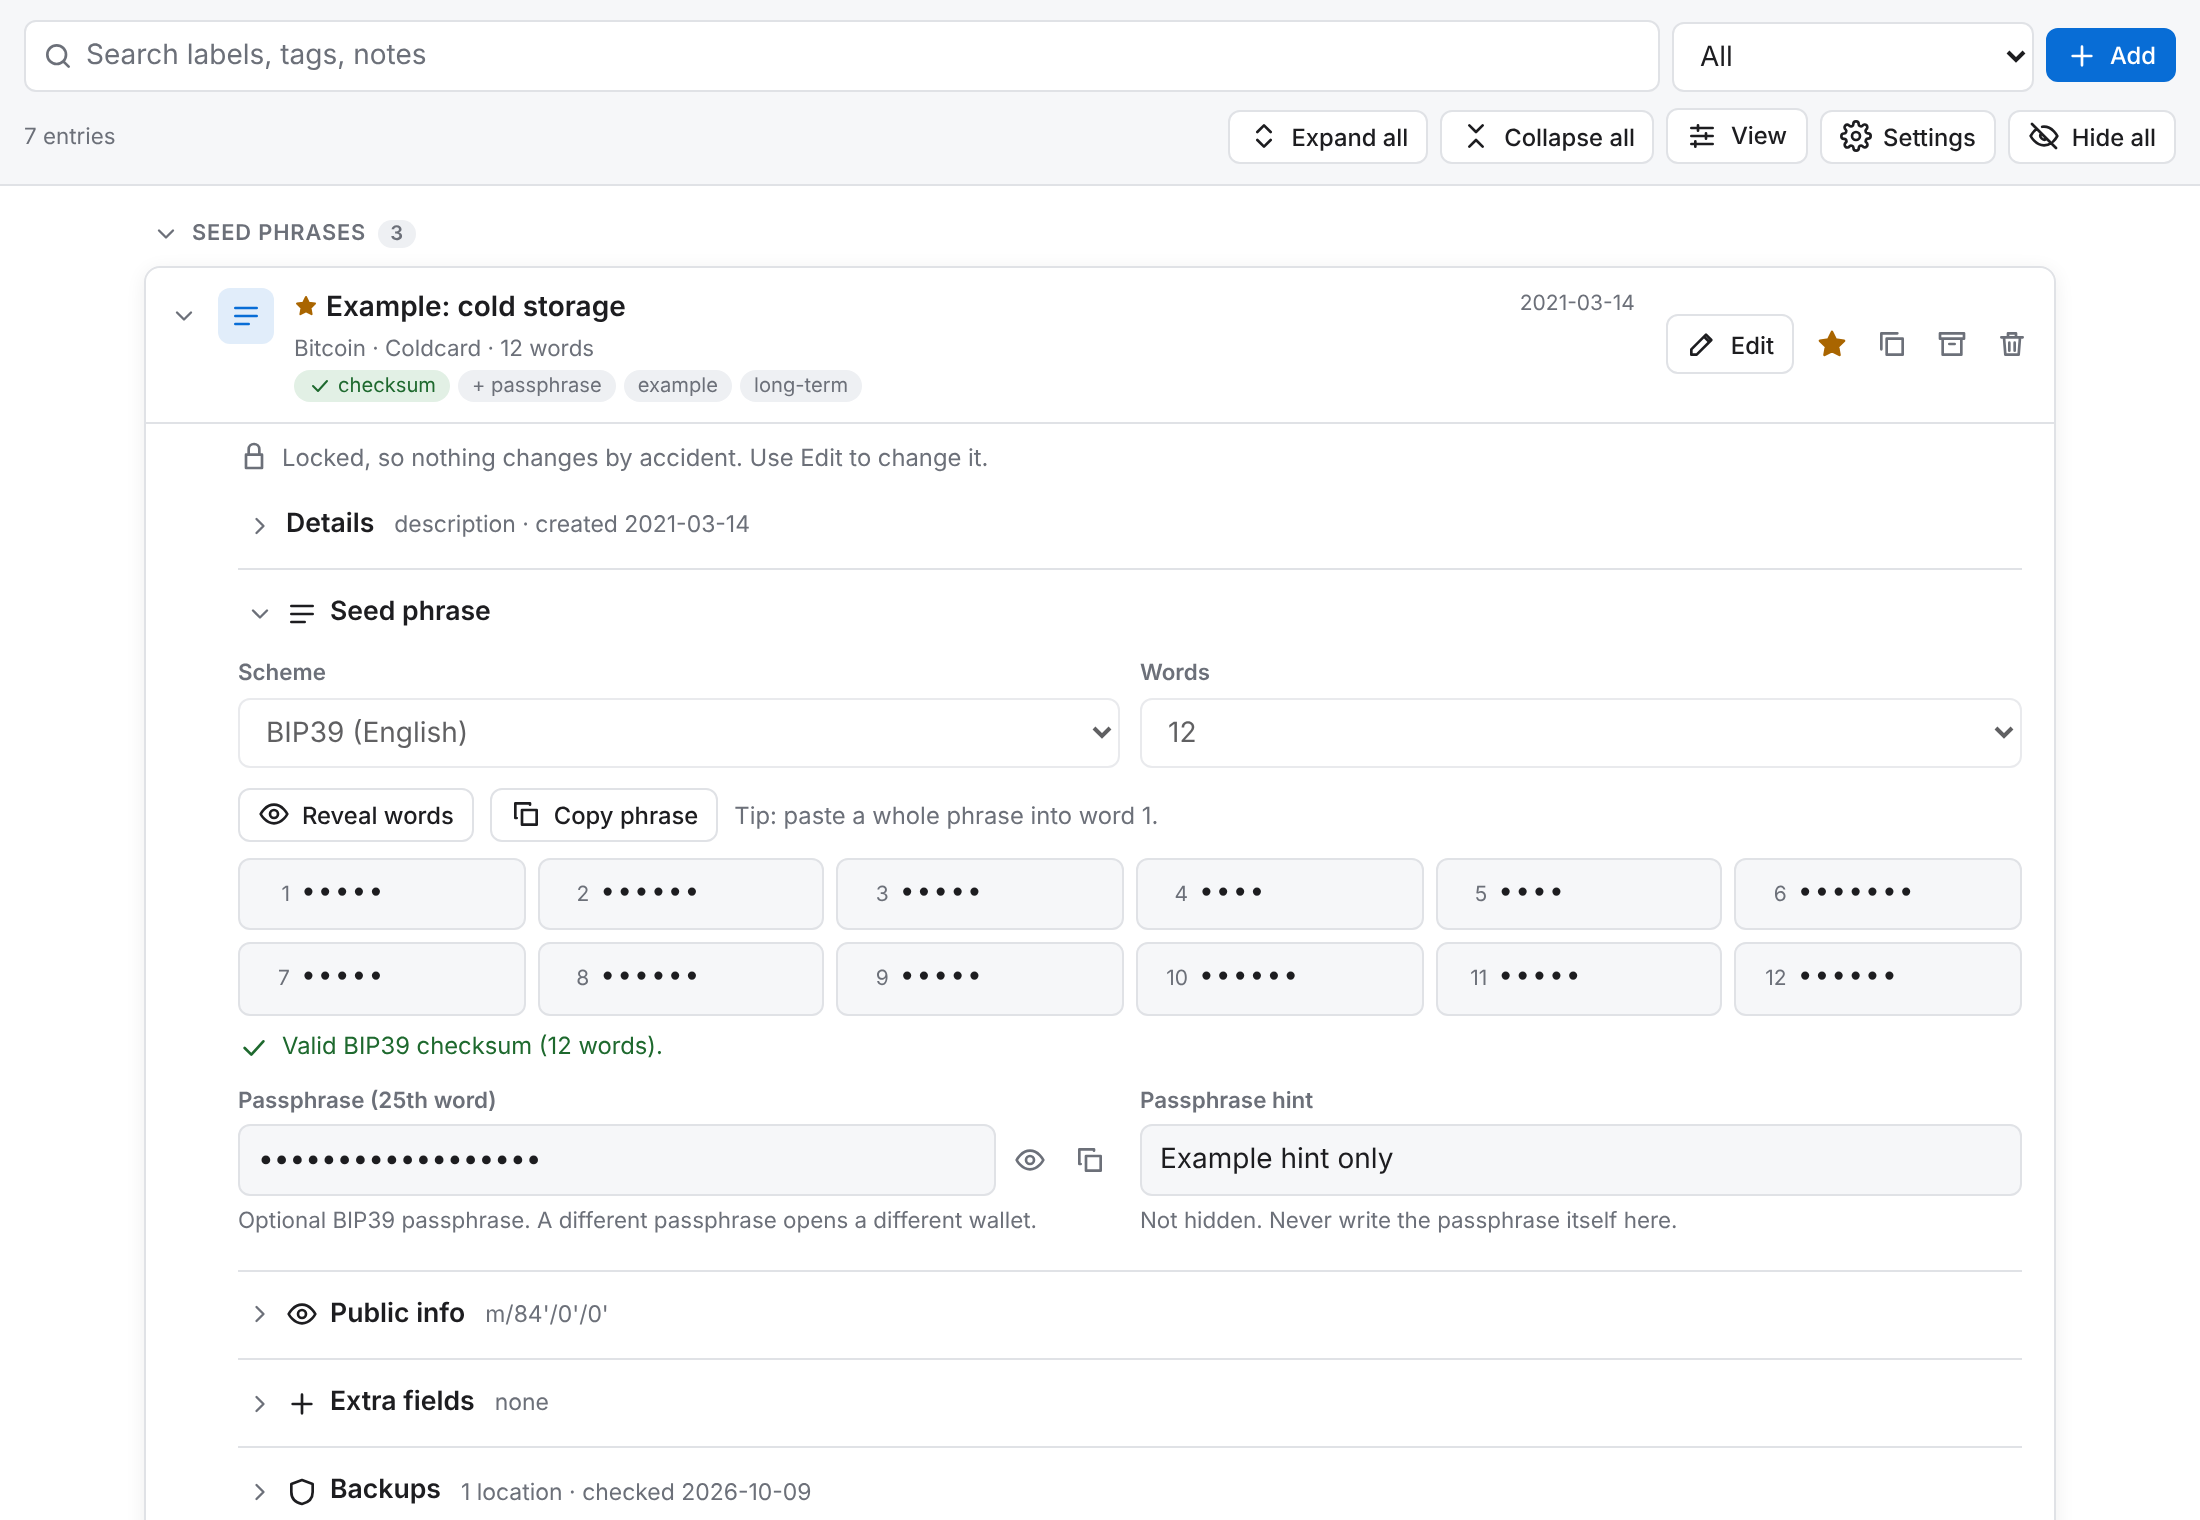
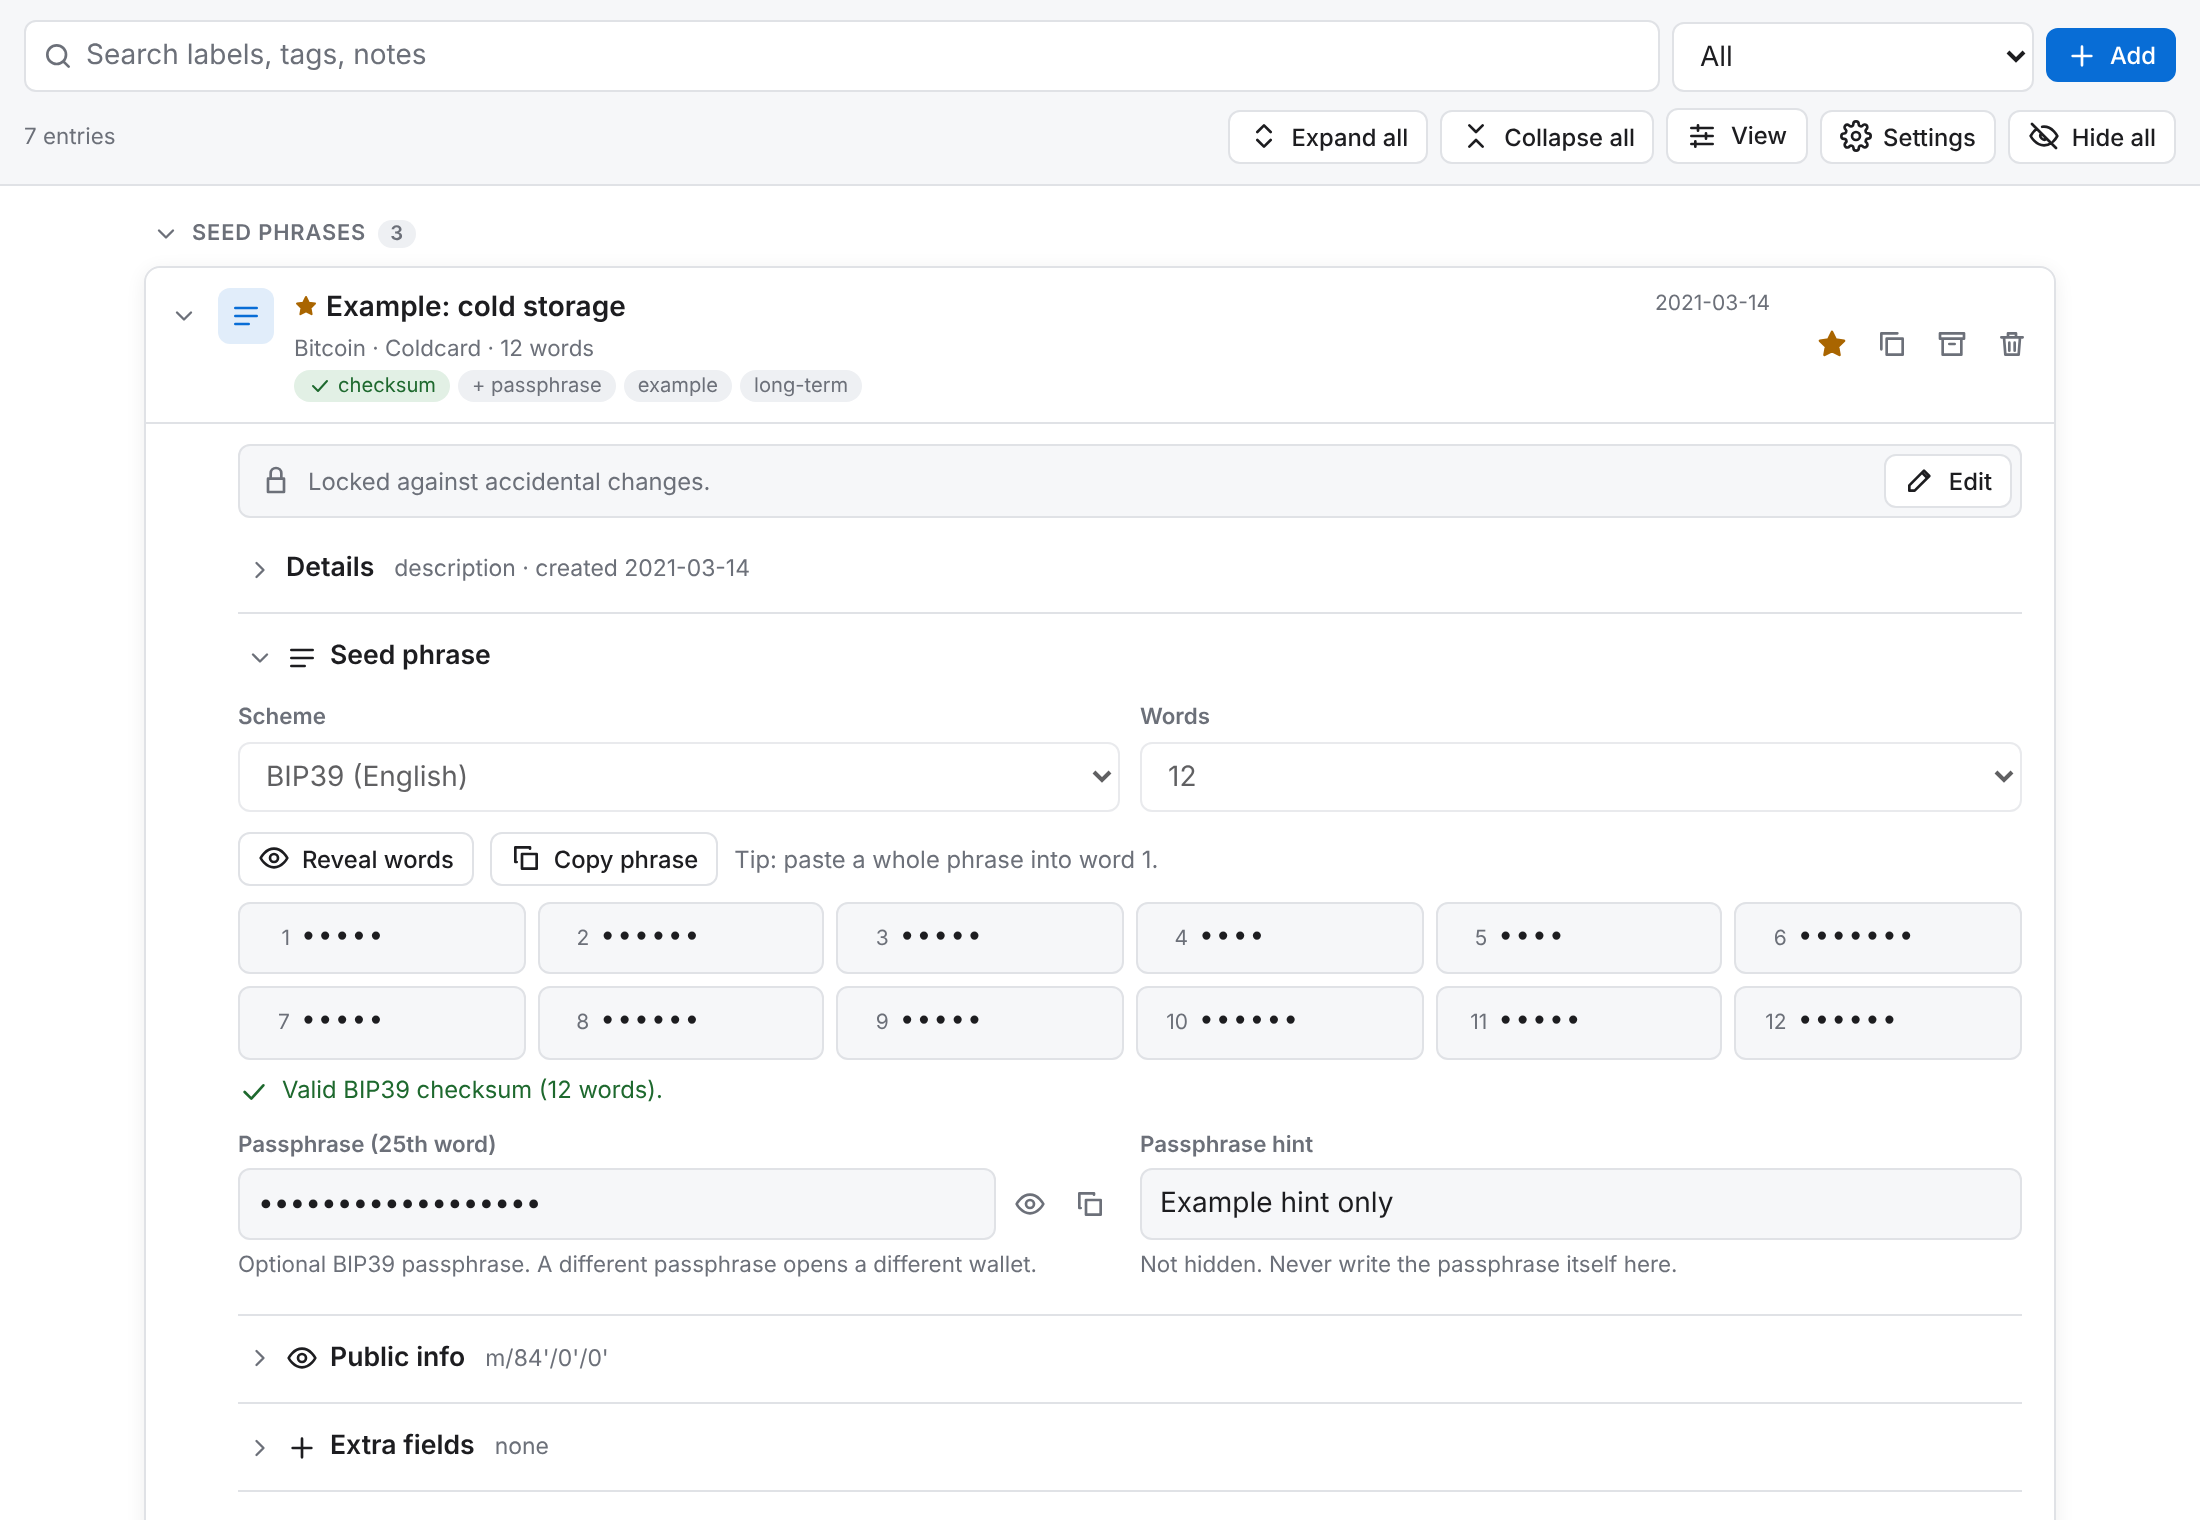
Move Edit into a bar above a locked entry's fields
The Edit button sat in the header's row of icon buttons, where it looked
heavy next to them and, on phones, its border ran into the header's
bottom line. A bar at the top of the entry now says "Locked against
accidental changes." and holds Edit; while editing it reads "Editing."
with Done. The header keeps its plain icon buttons. The README screenshot
shows the bar.

diff --git a/src/ui/EntryEditor.tsx b/src/ui/EntryEditor.tsx
@@ -842,42 +842,39 @@ export interface EntryHandlers {
  */
 export type EntryLock = 'off' | 'locked' | 'editing'
 
-/** Makes everything inside read-only while the entry is locked. Always rendered, so unlocking keeps state (revealed words). */
-export const LockScope = ({ lock, children }: { lock: EntryLock; children: ComponentChildren }) => {
+/**
+ * Makes everything inside read-only while the entry is locked, under a bar
+ * that says so and holds Edit (or Done). Always rendered, so unlocking keeps
+ * state such as revealed words.
+ */
+export const LockScope = ({ lock, onEditing, children }: { lock: EntryLock; onEditing: (editing: boolean) => void; children: ComponentChildren }) => {
   const ui = useUi()
   const readOnly = ui.readOnly || lock === 'locked'
   const value = useMemo(() => (readOnly === ui.readOnly ? ui : { ...ui, readOnly }), [ui, readOnly])
+  const locked = lock === 'locked'
   return (
     <UiContext.Provider value={value}>
-      {lock === 'locked' && !ui.readOnly && (
-        <p class="lock-hint muted small">
-          <Icon name="lock" /> Locked, so nothing changes by accident. Use Edit to change it.
-        </p>
+      {lock !== 'off' && !ui.readOnly && (
+        <div class={`lock-bar ${lock}`}>
+          <Icon name={locked ? 'lock' : 'edit'} />
+          <span>{locked ? 'Locked against accidental changes.' : 'Editing.'}</span>
+          <button type="button" class="button small" onClick={() => onEditing(locked)}>
+            <Icon name={locked ? 'edit' : 'check'} /> {locked ? 'Edit' : 'Done'}
+          </button>
+        </div>
       )}
       {children}
     </UiContext.Provider>
   )
 }
 
-/** Edit or Done, then favorite, duplicate, archive and delete buttons. */
-export const EntryActions = ({
-  entry,
-  lock,
-  onUpdate,
-  onDelete,
-  onDuplicate,
-  onEditing,
-}: { entry: Entry; lock: EntryLock } & EntryHandlers) => {
+/** Favorite, duplicate, archive and delete buttons. */
+export const EntryActions = ({ entry, onUpdate, onDelete, onDuplicate }: { entry: Entry } & EntryHandlers) => {
   const { readOnly } = useUi()
   // Read-only, every action is disabled: show none rather than a row of greyed-out buttons.
   if (readOnly) return null
   return (
     <div class="entry-actions">
-      {lock !== 'off' && (
-        <button type="button" class="button small edit-toggle" onClick={() => onEditing(lock === 'locked')}>
-          <Icon name={lock === 'locked' ? 'edit' : 'check'} /> {lock === 'locked' ? 'Edit' : 'Done'}
-        </button>
-      )}
       <button
         type="button"
         class={`icon-button ${entry.favorite ? 'active' : ''}`}
@@ -980,10 +977,10 @@ export const EntryEditor = ({ entry, lock, reminderMonths, onUpdate, onDelete, o
           onInput={(e) => !readOnly && onUpdate({ label: e.currentTarget.value })}
         />
         <span class={`badge badge-${entry.kind}`}>{KIND_LABELS[entry.kind]}</span>
-        <EntryActions entry={entry} lock={lock} onUpdate={onUpdate} onDelete={onDelete} onDuplicate={onDuplicate} onEditing={onEditing} />
+        <EntryActions entry={entry} onUpdate={onUpdate} onDelete={onDelete} onDuplicate={onDuplicate} onEditing={onEditing} />
       </header>
       <div class="editor-body">
-        <LockScope lock={lock}>
+        <LockScope lock={lock} onEditing={onEditing}>
           <EntryBody entry={entry} reminderMonths={reminderMonths} onUpdate={onUpdate} showLabel={false} />
         </LockScope>
       </div>

diff --git a/src/styles.css b/src/styles.css
@@ -922,18 +922,29 @@ select.input {
 .paste-note {
   width: 100%;
 }
-/* A saved entry opened locked: its fields are read-only until Edit. */
-.lock-hint {
+/* Saved entries open locked: a bar on top says so and holds Edit, or Done while editing. */
+.lock-bar {
   display: flex;
   align-items: center;
-  gap: 6px;
-  margin: 8px 0 4px;
+  gap: 8px;
+  margin: 10px 0 4px;
+  padding: 4px 4px 4px 10px;
+  font-size: 0.85rem;
+  color: var(--muted);
+  background: var(--panel);
+  border: 1px solid var(--border);
+  border-radius: var(--radius);
 }
-.lock-hint svg {
+.lock-bar > span {
+  flex: 1;
+  min-width: 0;
+}
+.lock-bar > svg {
   flex: none;
 }
-.entry-actions .edit-toggle {
-  margin-right: 4px;
+.lock-bar.editing {
+  color: var(--fg);
+  border-color: var(--info);
 }
 .notices > summary {
   color: var(--info);

diff --git a/src/ui/EntryStack.tsx b/src/ui/EntryStack.tsx
@@ -36,11 +36,11 @@ const EntryCard = memo(({ entry, lock, open, reminderMonths, isNew, onToggle, ..
           <Icon name="chevron" size={14} class="chevron" />
           <EntrySummary entry={entry} reminderMonths={reminderMonths} idPrefix={bodyId} />
         </button>
-        {open && <EntryActions entry={entry} lock={lock} {...handlers} />}
+        {open && <EntryActions entry={entry} {...handlers} />}
       </div>
       {open && (
         <div class="card-body" id={bodyId}>
-          <LockScope lock={lock}>
+          <LockScope lock={lock} onEditing={handlers.onEditing}>
             <EntryBody entry={entry} reminderMonths={reminderMonths} onUpdate={handlers.onUpdate} showLabel focusLabel={isNew} />
           </LockScope>
         </div>

diff --git a/e2e/editor.spec.ts b/e2e/editor.spec.ts
@@ -1205,7 +1205,7 @@ test('saved entries open locked: Edit unlocks, Done and closing lock again, quic
   const { app, errors } = await open(page, vaultText([SEEDS[0]]))
   const card = app.getByRole('button', { name: /Cold storage/ })
   await card.click()
-  await expect(app.getByText('Locked, so nothing changes by accident. Use Edit to change it.')).toBeVisible()
+  await expect(app.getByText('Locked against accidental changes.')).toBeVisible()
   const word1 = app.getByLabel('Word 1', { exact: true })
   await expect(word1).toHaveAttribute('readonly', '')
   await expect(app.getByRole('combobox', { name: 'Scheme' })).toBeDisabled()
